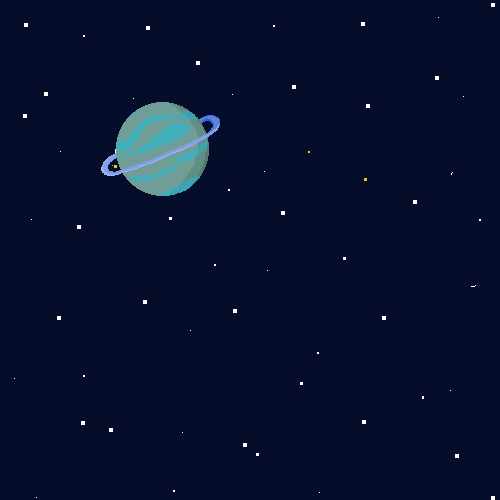
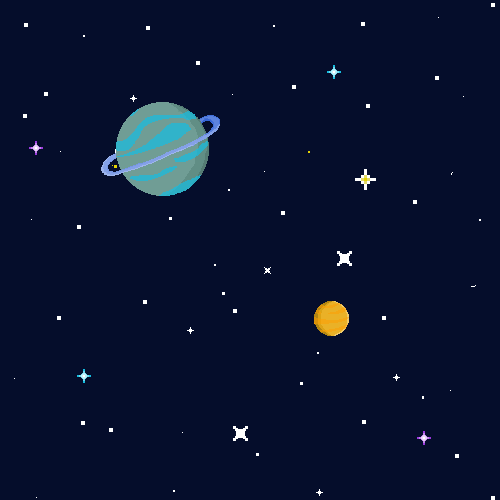
Ver. 0.0.5 -------------- - Optimizations - added and updated Background - added Moving Background - added Score

diff --git a/main.py b/main.py
@@ -3,8 +3,6 @@ from random import randint
 pygame.init()
 
 
-#TODO: Moving BG
-#TODO: Score
 #TODO: Animations
 #TODO: add MENU
 #TODO: improve enemy spawning
@@ -18,13 +16,13 @@ win = pygame.display.set_mode((screen_w,screen_h))
 
 #Setting the Window Caption
 pygame.display.set_caption("First Game")
-BG = pygame.image.load("envi/SpaceBG.png")
+BG = (pygame.image.load("envi/SpaceBG.png").convert(),pygame.image.load("envi/SpaceBG2.png").convert_alpha())
 
 #Player Position
 
 
 #Player size
-player = pygame.image.load("char/PurpleSpaceship3.png")
+
 
 
 #Player speed/directional change
@@ -37,8 +35,8 @@ class Enemy(object):
 
 
     def __init__(self, x, y, width, height):
-        self.meteor= [pygame.image.load("enemy/MeteoEnemy.png"), pygame.image.load("enemy/MeteoEnemy2.png"),
-                      pygame.image.load("enemy/MeteoEnemy3.png")]
+        self.meteor= [pygame.image.load("enemy/MeteoEnemy.png").convert_alpha(), pygame.image.load("enemy/MeteoEnemy2.png").convert_alpha(),
+                      pygame.image.load("enemy/MeteoEnemy3.png").convert_alpha()]
         self.x = x
         self.y = y
         self.img_size = randint(0,2)
@@ -64,9 +62,10 @@ class Enemy(object):
     def move(self):
         pass
     def hit(self):
-        global enemies, bullets
+        global enemies, bullets, score
         enemies = [enemy for enemy in enemies if enemy not in enemies_removed]
         bullets = [bullet for bullet in bullets if bullet not in bullets_removed]
+        score +=1
 
 
 
@@ -79,7 +78,7 @@ class player(object):
         self.width = width
         self.height = height
         self.vel = 4
-        self.player = pygame.image.load("char/PurpleSpaceship3.png")
+        self.player = pygame.image.load("char/PurpleSpaceship3.png").convert_alpha()
         self.hitbox = (self.x , self.y, width, height)
 
     def draw(self,win):
@@ -96,7 +95,7 @@ class projectile(object):
         self.height = 12
 
         self.vel = -8
-        self.projectile = pygame.image.load("projectiles/Fireball.png")
+        self.projectile = pygame.image.load("projectiles/Fireball.png").convert_alpha()
 
     def draw(self, win):
         win.blit(self.projectile, (self.x, self.y))
@@ -107,8 +106,14 @@ class projectile(object):
 
 def RedrawGameWindow():
     #ReDraw Background
-
-    win.blit(BG, (0, 0) )
+    if BG_current == 1:
+        win.blit(BG[1], (0, BG_y - screen_h))
+        win.blit(BG[0], (0, BG_y) )
+    else:
+        win.blit(BG[1], (0, BG_y ))
+        win.blit(BG[0], (0, BG_y- screen_h))
+    text = font.render("SCORE: " + str(score), 1, (255,255,255))
+    win.blit(text, (210, 10))
 
     #Draw Player
     #pygame.draw.rect(win, (255,255,255), (x, y, width, height))
@@ -126,6 +131,8 @@ def RedrawGameWindow():
 
 
 #Loop for Game
+BG_y = 0
+font = pygame.font.SysFont("comicsans", 30, True, True)
 enemies_removed = set()
 bullets_removed = set()
 enemies = []
@@ -134,6 +141,8 @@ shootLoop = 0
 meteoLoop = 0
 bullets = []
 run = True
+score = 0
+BG_current = 1
 while run:
     if len(enemies) < 4 and meteoLoop == 0:
         enemies.append(Enemy(randint(50, 450), randint(50, 150), 64, 64))
@@ -166,7 +175,7 @@ while run:
                 if bullet.x - bullet.width < enemy.hitbox[0] + enemy.width and bullet.x + bullet.width > enemy.hitbox[0]:
                     enemies_removed.add(enemy)
                     bullets_removed.add(bullet)
-        enemy.hit()
+                    enemy.hit()
 
         if bullet.y > 0 and bullet.y < 500:
             bullet.y += bullet.vel
@@ -180,7 +189,9 @@ while run:
     #Checking for Key inputs
     if keys[pygame.K_SPACE] and shootLoop == 0:
         if len(bullets) < 100:
-            bullets.append(projectile(round(ship.x + ship.width//2 - 6), round(ship.y + ship.height//4) ))
+            bullets.append(projectile(round(ship.x + ship.width//2 - 6), round(ship.y + ship.height//4)))
+            #bullets.append(projectile(round(ship.x + ship.width//2 + 6), round(ship.y + ship.height//4) ))
+            #bullets.append(projectile(round(ship.x + ship.width//2 - 12), round(ship.y + ship.height//4)))
         shootLoop = 1
 
     if keys[pygame.K_LEFT]:
@@ -204,6 +215,16 @@ while run:
 
 
     RedrawGameWindow()
+    if BG_y < 500:
+        BG_y += 1
+    else:
+        if BG_current == 1:
+            BG_current = 2
+            BG_y = 0
+        else:
+            BG_current = 1
+            BG_y = 0
+
 
 
 
